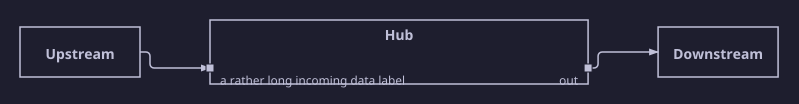
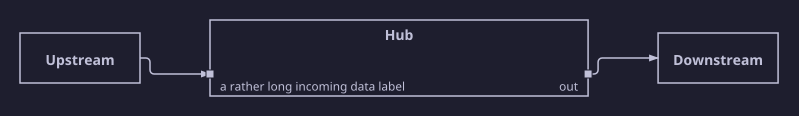
fix: double port-label downward-shift compensation to clear box bottom border
PortDistributor centers each port within its face's available band, so
only half of any band height added by the downward-shift compensation
term ends up below the port's anchor point. The prior flat
assumedFontSize addend therefore only delivered half a line of real
clearance below the label, letting Left/Right ExternalLabel text clip
the bottom border of node boxes. Scale the compensation by 2.0x (both
the single-anchor and multi-anchor floors) so the full assumedFontSize
of clearance actually appears below the label's bottom edge.

Update the regression test's expected margin and derivation comments
to match, and regenerate the two affected gallery diagrams.

diff --git a/src/DemaConsulting.Rendering.Layout/LayeredLayoutAlgorithm.cs b/src/DemaConsulting.Rendering.Layout/LayeredLayoutAlgorithm.cs
@@ -326,23 +326,31 @@ public sealed class LayeredLayoutAlgorithm : LayoutAlgorithmBase
             // SvgRenderer.EmitPortLabel draws a Left/Right port's ExternalLabel at
             // (port.CentreY + FontSizeBody) — a full line's worth of clearance below the port glyph's
             // own centre (matching the Top/Bottom convention's own CentreY + offset + FontSizeBody
-            // formula), not the symmetric top/bottom clearance the row floor above assumes. Without
-            // compensating for that downward shift, the clearance above sits unused above the port row
-            // while the shifted-down label text (plus its own glyph descent) can run past the box's
-            // bottom edge — exactly what a single labeled port on a titled box's face produces (the
-            // title reserve leaves only one row for the port, so there is no slack elsewhere to absorb
-            // the shift). Add the same downward-shift amount as extra bottom margin, gated on the face
-            // actually carrying a named, labeled port: bySide (from sidePorts, already resolved above)
-            // is the same dictionary ResolveContentInsets uses and only records named
-            // LayoutGraphPort labels (unlike faceAnchors.AnyLabeled, which tracks the *edge's own*
-            // mid-line label instead of a port's ExternalLabel and would miss this case entirely) — an
-            // anonymous edge endpoint draws no label near the box face and needs no extra room.
+            // formula) — with dominant-baseline="middle", so the glyph itself extends roughly another
+            // half line-height of descent below that anchor y. The label's actual bottom edge therefore
+            // sits at CentreY + 1.5 * FontSizeBody, not the symmetric top/bottom clearance the row floor
+            // above assumes. Without compensating for that downward shift, the clearance above sits
+            // unused above the port row while the shifted-down label text (plus its own glyph descent)
+            // can run past the box's bottom edge — exactly what a single labeled port on a titled box's
+            // face produces (the title reserve leaves only one row for the port, so there is no slack
+            // elsewhere to absorb the shift). A flat addition of assumedFontSize is not enough on its
+            // own, though: PortDistributor.DistributePorts centres the port within its face's available
+            // band (nodeTop + nodeHeight / 2 for the single-anchor case), so only HALF of any height
+            // added here ends up below the port's centre — the other half is spent growing the band
+            // upward, where the label never reaches. Add 2 * assumedFontSize (not 1x) as extra bottom
+            // margin so the required assumedFontSize of clearance actually materializes below the
+            // label's bottom edge, gated on the face actually carrying a named, labeled port: bySide
+            // (from sidePorts, already resolved above) is the same dictionary ResolveContentInsets uses
+            // and only records named LayoutGraphPort labels (unlike faceAnchors.AnyLabeled, which tracks
+            // the *edge's own* mid-line label instead of a port's ExternalLabel and would miss this case
+            // entirely) — an anonymous edge endpoint draws no label near the box face and needs no extra
+            // room.
             var hasLabeledLeftOrRightAnchor = bySide != null
                 && ((bySide.TryGetValue(PortSide.Left, out var leftLabels) && leftLabels.Exists(l => !string.IsNullOrEmpty(l)))
                     || (bySide.TryGetValue(PortSide.Right, out var rightLabels) && rightLabels.Exists(l => !string.IsNullOrEmpty(l))));
             if (hasLabeledLeftOrRightAnchor)
             {
-                minHeight += assumedFontSize;
+                minHeight += assumedFontSize * 2.0;
             }
 
             // Port-label MaxLabelWidth floor (this fix): ResolveMaxLabelWidth halves the box's own placed
@@ -419,22 +427,27 @@ public sealed class LayeredLayoutAlgorithm : LayoutAlgorithmBase
 
                         // Same downward-label-shift compensation as the single-port minHeight floor
                         // above (SvgRenderer.EmitPortLabel draws a Left/Right port's ExternalLabel at
-                        // CentreY + FontSizeBody, a full line's worth of clearance below the port row,
-                        // not centered on it) — without it, this multi-port candidate can win the
-                        // Math.Max below yet still leave no slack for the bottom-most labeled port's
-                        // downward-shifted text, which then runs past the box's bottom edge exactly as
-                        // the single-port case would without this term. PortDistributor.DistributePorts
-                        // centers each of faceInfo.Total ports within its own equal-height slice of the
-                        // added band, so a flat addition here is only fully absorbed by the bottom-most
-                        // slice's own height when there is exactly one slice (Total == 1); for Total >=
-                        // 2 a flat addend is instead divided across every slice's height (each slice
-                        // gains only addend / Total), silently eroding the intended margin as Total
-                        // grows. Scale by faceInfo.Total so every slice's height still gains the full
-                        // assumedFontSize the single-port case relies on, regardless of how many ports
-                        // share the face.
+                        // CentreY + FontSizeBody with dominant-baseline="middle", so the label's actual
+                        // bottom edge sits at CentreY + 1.5 * FontSizeBody, not centered on the port row)
+                        // — without it, this multi-port candidate can win the Math.Max below yet still
+                        // leave no slack for the bottom-most labeled port's downward-shifted text, which
+                        // then runs past the box's bottom edge exactly as the single-port case would
+                        // without this term. PortDistributor.DistributePorts centers each of
+                        // faceInfo.Total ports within its own equal-height slice of the added band, so a
+                        // flat addition here is only fully absorbed by the bottom-most slice's own height
+                        // when there is exactly one slice (Total == 1); for Total >= 2 a flat addend is
+                        // instead divided across every slice's height (each slice gains only addend /
+                        // Total), silently eroding the intended margin as Total grows. Scale by
+                        // faceInfo.Total so every slice's height still gains the full compensation term
+                        // the single-port case relies on, regardless of how many ports share the face.
+                        // As with the single-port floor, each slice only receives HALF of any height
+                        // added here (the port is centred within its own slice, so the other half grows
+                        // the slice upward, where the label never reaches) — multiply by 2.0 so the
+                        // required assumedFontSize of clearance actually materializes below every
+                        // bottom-most labeled port's label.
                         if (sidePortLabeled)
                         {
-                            minHeightCandidate += assumedFontSize * faceInfo.Total;
+                            minHeightCandidate += assumedFontSize * 2.0 * faceInfo.Total;
                         }
 
                         minHeight = Math.Max(minHeight, minHeightCandidate);

diff --git a/test/DemaConsulting.Rendering.Layout.Tests/LayeredLayoutAlgorithmTests.cs b/test/DemaConsulting.Rendering.Layout.Tests/LayeredLayoutAlgorithmTests.cs
@@ -969,20 +969,23 @@ public class LayeredLayoutAlgorithmTests
     /// <remarks>
     ///     Derivation of the expected margin for this two-port scenario (Total = 2 ports on the Left
     ///     face, both labeled): the multi-anchor growth floor sets
-    ///     <c>band = Math.Max(labelBasedHeight, clearanceBasedHeight) + (assumedFontSize * Total)</c>,
-    ///     where <c>labelBasedHeight = EstimateLabelHeight(assumedFontSize) * Total</c> (≈19.6 per port
-    ///     at the default 12px font, via ConnectorLabelPlacer's fixed 1.3x-font-size-plus-2x2-gap
-    ///     formula) and <c>clearanceBasedHeight = 2 * ConnectorClearance * Total</c> (20 per port, since
-    ///     <c>LayeredLayoutMetrics.ConnectorClearance = 10</c>). Because 20 > 19.6 for every label text
-    ///     at this font size, <c>clearanceBasedHeight</c> always wins here, so
-    ///     <c>band = (2 * ConnectorClearance + assumedFontSize) * Total</c>. PortDistributor
-    ///     (<see cref="DemaConsulting.Rendering.Layout.Engine.Layered.PortDistributor"/>) then centers
-    ///     each of the <c>Total</c> ports within its own equal <c>band / Total</c>-tall slice of that
-    ///     band, so the bottom-most port's own margin to the box's bottom edge is exactly half of one
-    ///     slice: <c>(band / Total) / 2 = (2 * ConnectorClearance + assumedFontSize) / 2 =
-    ///     ConnectorClearance + (assumedFontSize / 2)</c> — independent of <c>Total</c> whenever
+    ///     <c>band = Math.Max(labelBasedHeight, clearanceBasedHeight) + (assumedFontSize * 2.0 *
+    ///     Total)</c>, where <c>labelBasedHeight = EstimateLabelHeight(assumedFontSize) * Total</c>
+    ///     (≈19.6 per port at the default 12px font, via ConnectorLabelPlacer's fixed
+    ///     1.3x-font-size-plus-2x2-gap formula) and <c>clearanceBasedHeight = 2 * ConnectorClearance *
+    ///     Total</c> (20 per port, since <c>LayeredLayoutMetrics.ConnectorClearance = 10</c>). Because
+    ///     20 > 19.6 for every label text at this font size, <c>clearanceBasedHeight</c> always wins
+    ///     here, so <c>band = (2 * ConnectorClearance + (2 * assumedFontSize)) * Total</c>. The
+    ///     compensation term is doubled (rather than a flat <c>assumedFontSize</c>) because
+    ///     PortDistributor (<see cref="DemaConsulting.Rendering.Layout.Engine.Layered.PortDistributor"/>)
+    ///     centers each of the <c>Total</c> ports within its own equal <c>band / Total</c>-tall slice of
+    ///     that band, so only HALF of any height added to the band ends up below a port's own centre —
+    ///     the other half grows the slice upward, where the label never reaches. The bottom-most port's
+    ///     own margin to the box's bottom edge is therefore half of one slice:
+    ///     <c>(band / Total) / 2 = (2 * ConnectorClearance + (2 * assumedFontSize)) / 2 =
+    ///     ConnectorClearance + assumedFontSize</c> — independent of <c>Total</c> whenever
     ///     <c>clearanceBasedHeight</c> dominates. At the default constants (ConnectorClearance = 10,
-    ///     assumedFontSize = 12) this is <c>10 + 6 = 16</c>, confirmed empirically against the actual
+    ///     assumedFontSize = 12) this is <c>10 + 12 = 22</c>, confirmed empirically against the actual
     ///     layout output for this exact scenario.
     /// </remarks>
     [Fact]
@@ -1015,11 +1018,11 @@ public class LayeredLayoutAlgorithmTests
         var boxBottom = hubBox.Y + hubBox.Height;
         var bottomPortMargin = boxBottom - ports[^1].CentreY;
 
-        // requiredMargin = ConnectorClearance + (assumedFontSize / 2) — see the <remarks> derivation
-        // above. This is strictly greater than the pre-fix requirement of a bare `assumedFontSize`
-        // (12), proving the new full-FontSizeBody downward-shift compensation (rather than the old
-        // half-FontSizeBody one) actually reaches the bottom-most port of a multi-port face.
-        var requiredMargin = LayeredLayoutMetrics.ConnectorClearance + (assumedFontSize / 2.0);
+        // requiredMargin = ConnectorClearance + assumedFontSize — see the <remarks> derivation
+        // above. This is strictly greater than the pre-fix requirement of
+        // ConnectorClearance + (assumedFontSize / 2), proving the doubled downward-shift
+        // compensation term actually reaches the bottom-most port of a multi-port face.
+        var requiredMargin = LayeredLayoutMetrics.ConnectorClearance + assumedFontSize;
         Assert.True(
             bottomPortMargin >= requiredMargin,
             $"Expected bottom-most left port's margin to box bottom ({bottomPortMargin}) to be at least "
